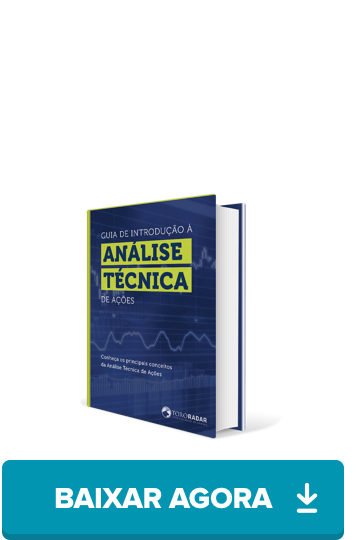
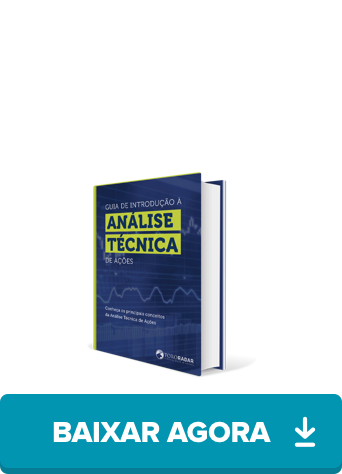
Update ad styles.

diff --git a/src/scss/styles.scss b/src/scss/styles.scss
@@ -633,8 +633,8 @@
 
         &.ebook {
             &:before {
-                max-width: 190px;
-                max-height: 271px;
+                max-width: 175px;
+                max-height: 238px;
                 background-image: url(../native/toro-radar/image/text-3.png);
             }
         }
@@ -650,7 +650,25 @@
     .frame-bottom-text {
     	height: 27px;
         width: 287px;
+        max-width: 70%;
+        bottom: 4%;
+        left: 20px;
         background: url(../native/toro-radar/image/frame-bottom-text.png) no-repeat;
-        background-size: auto 100%;
+        background-size: 100% auto;
+    }
+
+    @media screen and (max-width: 320px) {
+        .frame-bottom-text {
+            bottom: 0;
+            max-width: 65%;
+            left: 10px;
+        }
+
+        .frame-close {
+            top: 6px;
+            right: 6px;
+            width: 10px;
+            height: 10px;
+        }
     }
 }

diff --git a/src/scripts/player.controller.native.js b/src/scripts/player.controller.native.js
@@ -278,6 +278,8 @@ SambaAdsPlayerControllerNative = function (){
 
 			var currentFrameType = frameType[Math.floor(Math.random() * frameType.length)];
 
+			console.log(currentFrameType);
+
 			frameTrigger.addClass(currentFrameType);
 
 			var tags = self.video.LR_TAGS + ",native," + currentFrameType + ",",
@@ -431,7 +433,7 @@ SambaAdsPlayerControllerNative = function (){
 
 
 		// Check is InfoMoney hash_code ca04f15a06527c725b9915e91c860e8d
-		self.client.hash_code = 'ca04f15a06527c725b9915e91c860e8d';
+		//self.client.hash_code = 'ca04f15a06527c725b9915e91c860e8d';
 		if(self.client.hash_code === 'ca04f15a06527c725b9915e91c860e8d') {
 			toroRadarFrame(videoId);
 		} else if(can_publisher_play || can_vertical_play) {
